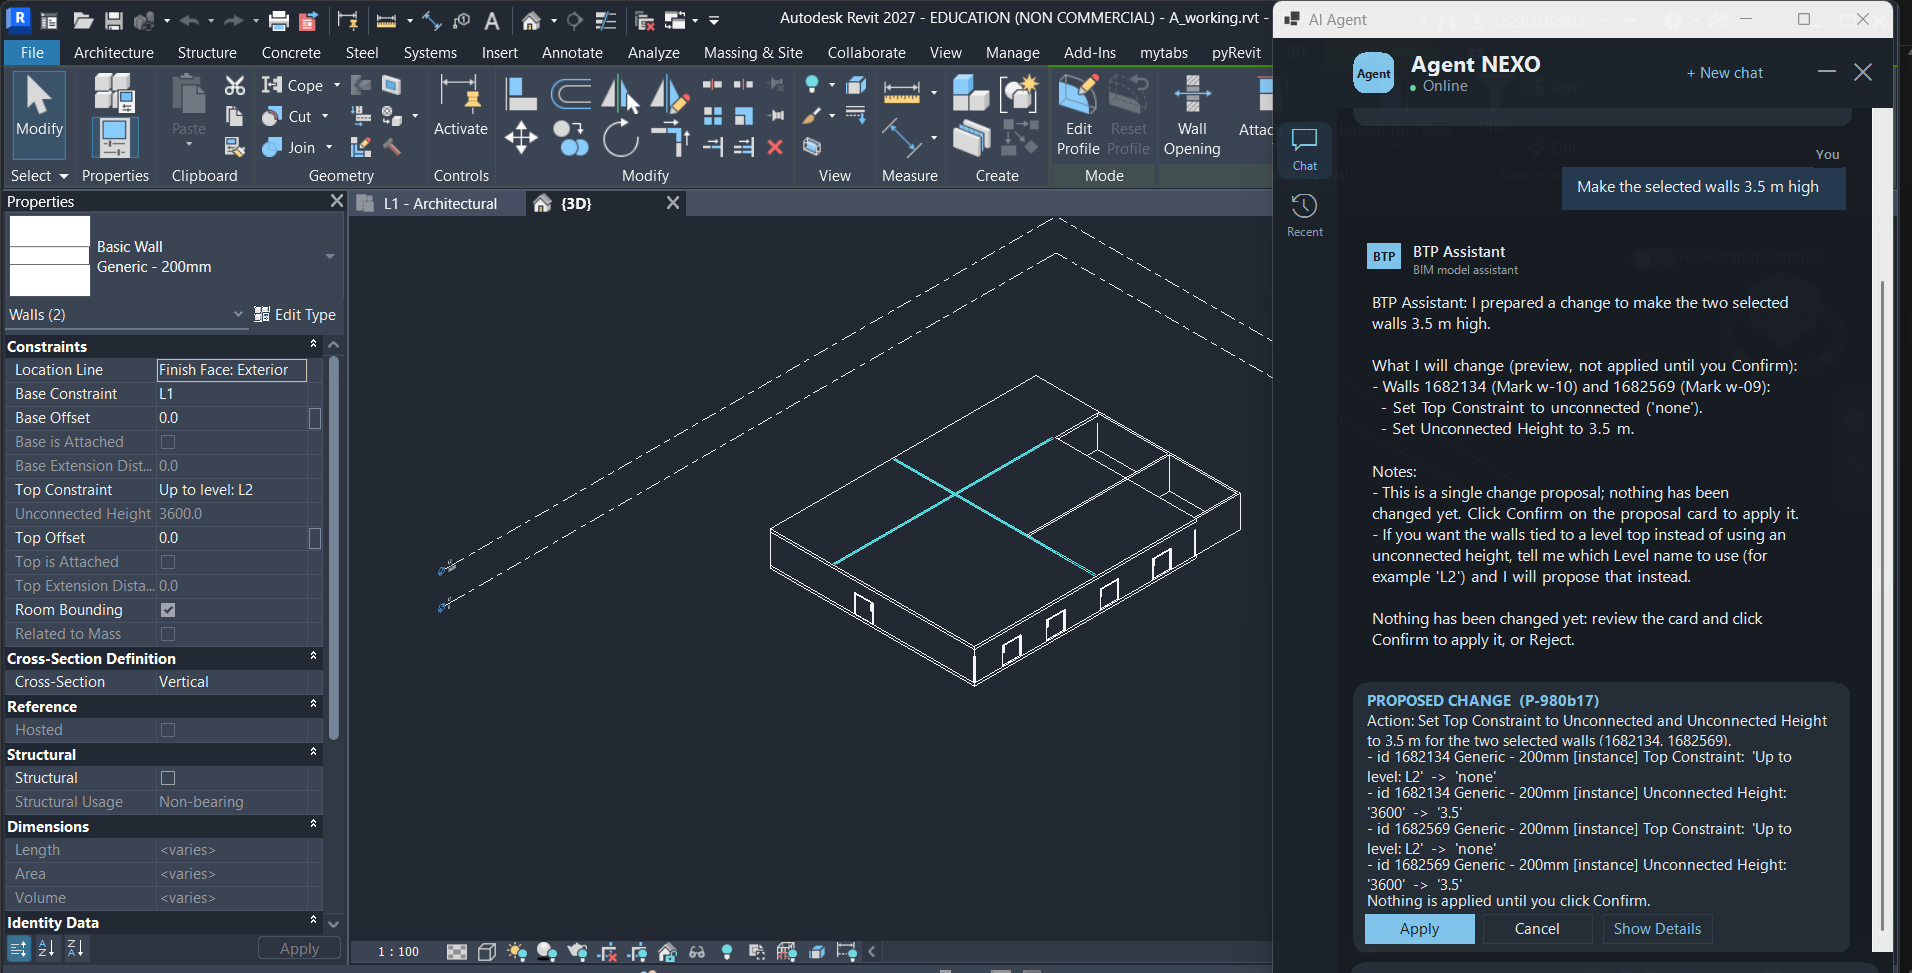
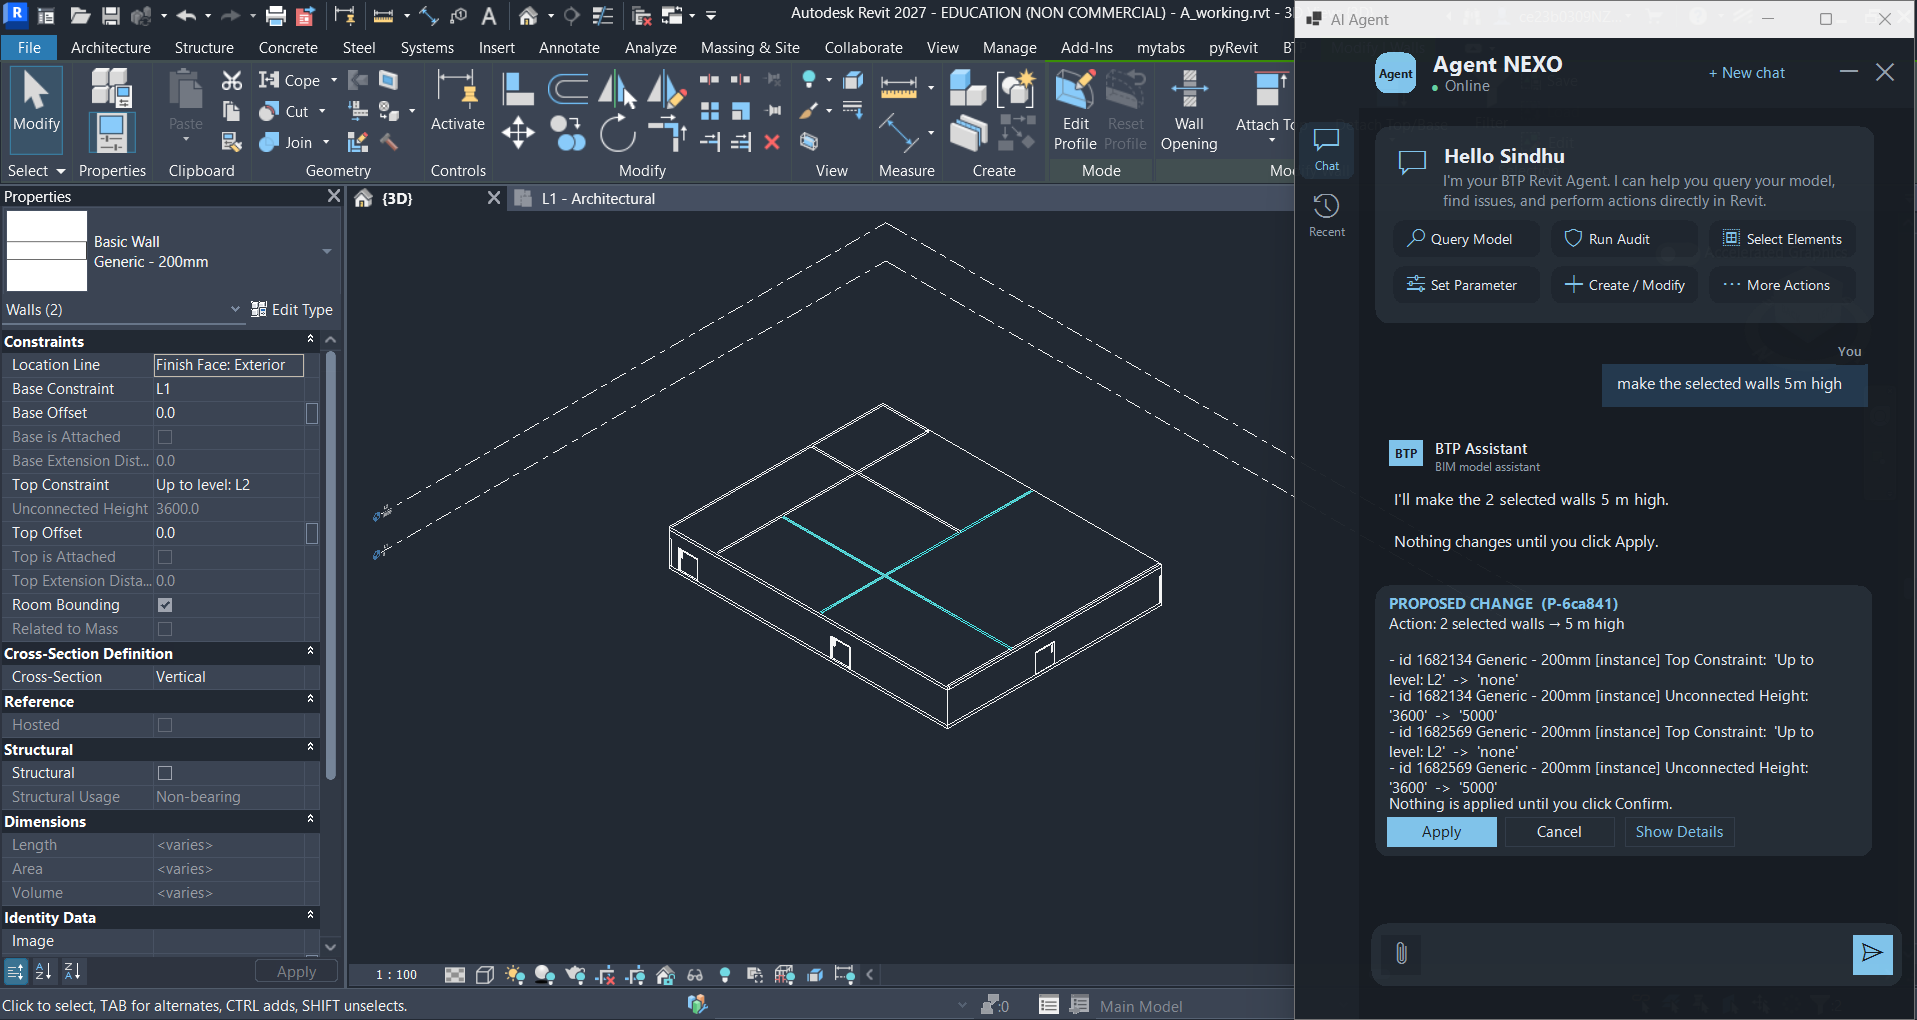
docs: changelog for actions-v3.25, before/after screenshots and the new tests
Claude-Session: https://claude.ai/code/session_01BGRu54y5cGev8tiuAgPQb8

diff --git a/CHANGELOG.md b/CHANGELOG.md
@@ -6,15 +6,26 @@ The format is based on [Keep a Changelog](https://keepachangelog.com/en/1.1.0/).
 
 ## [Unreleased]
 
-### Changed
-- Repository reorganised: the brain server lives in `src/nexo/`, the pyRevit extension in `revit_extension/` (previously `btp_agent_snapshot/`), and every test under `tests/`.
-- The brain server now starts with `python src/nexo/brain_server.py`.
-- README rewritten; `.gitignore` grouped and de-duplicated.
+## [actions-v3.25] - 2026-10-27
+
+### Fixed
+- The agent answered from chat memory instead of reading the model: every turn now starts with a tool call, so answers come from the live, unsaved model.
+- A plain number such as 3.5 was written as 3.5 mm in a millimetre project; it now means 3.5 m, and reading a length returns metres.
+- Both model readers return the same value types (yes/no as 0 or 1, lengths in metres); a text-vs-number mismatch made actions skip walls that had changed.
+- Clear, true reasons when a change is not possible (a height locked by a level, a wall top attached to a roof), instead of a vague error or an invented reason.
+- Walls with an attached top no longer get a height change that has no visible effect.
 
 ### Added
-- `requirements.txt`, `requirements-dev.txt` and `.env.example`.
-- GitHub Actions workflow running the offline checks.
-- `CONTRIBUTING.md`, `SECURITY.md`, issue and pull request templates, MIT `LICENSE`.
+- Detach a wall's top or base through a card (Revit's Detach Top/Base), shown as *Top is Attached Yes -> No* and applied only after **Apply**.
+- After **Apply**, every changed value is read back from the model; anything Revit did not keep is reported.
+- `eval/accuracy_check.py` (compares the agent with values read straight from Revit), `tests/check_live_data.py` (runs in CI) and `docs/accuracy_checklist.md`.
+- README screenshot of the panel.
+
+### Changed
+- Short, plain replies: answers first, no notes or extra offers, no "BTP Assistant:" prefix; card replies end with *Nothing changes until you click Apply.*
+- Repository reorganised: the brain server lives in `src/nexo/` (start it with `python src/nexo/brain_server.py`), the pyRevit extension in `revit_extension/` (previously `btp_agent_snapshot/`), and every test under `tests/`.
+- README rewritten; `.gitignore` grouped and de-duplicated; requirements pinned to the tested versions.
+- Added `requirements.txt`, `requirements-dev.txt`, `.env.example`, a GitHub Actions workflow, `CONTRIBUTING.md`, `SECURITY.md`, issue and pull request templates, and the MIT `LICENSE`.
 
 ## [actions-v3.24] - 2026-10-26
 
@@ -212,7 +223,8 @@ The format is based on [Keep a Changelog](https://keepachangelog.com/en/1.1.0/).
 | [`phase5-complete`](https://github.com/sindhupasham277/BIM_AGENT/releases/tag/phase5-complete) | 2026-10-09 | Safe write path frozen for evaluation |
 | *(untagged)* | 2026-09 | Phases 1-4: read-only assistant, query engine, sandboxed code generation, LLM tool calling |
 
-[Unreleased]: https://github.com/sindhupasham277/BIM_AGENT/compare/actions-v3.24...HEAD
+[Unreleased]: https://github.com/sindhupasham277/BIM_AGENT/compare/actions-v3.25...HEAD
+[actions-v3.25]: https://github.com/sindhupasham277/BIM_AGENT/compare/actions-v3.24...actions-v3.25
 [actions-v3.24]: https://github.com/sindhupasham277/BIM_AGENT/compare/actions-v3.23...actions-v3.24
 [actions-v3.23]: https://github.com/sindhupasham277/BIM_AGENT/compare/actions-v3.22...actions-v3.23
 [actions-v3.22]: https://github.com/sindhupasham277/BIM_AGENT/compare/actions-v3.21...actions-v3.22

diff --git a/README.md b/README.md
@@ -15,7 +15,11 @@ An AI agent that lives inside Autodesk Revit: plain-language questions get exact
 
 </div>
 
-<p align="center"><img src="docs/images/panel.png" alt="Agent NEXO panel inside Revit" width="820"></p>
+<p align="center">
+  <img src="docs/images/panel.png" alt="Agent NEXO previewing a change: two walls to 5 m, shown on a card before anything changes" width="49%">
+  <img src="docs/images/panel_applied.png" alt="After Apply: the two walls are 5 m high in the Revit model" width="49%">
+</p>
+<p align="center"><sub><b>Left:</b> the agent previews the change on a card, and nothing changes yet. <b>Right:</b> after <b>Apply</b>, the walls are 5 m high in Revit.</sub></p>
 
 ---
 
@@ -172,8 +176,10 @@ BIM_AGENT/
 | Memory database | Python | `python tests\check_memory.py` |
 | Direct regression suite (35 checks, no AI credits) | Revit with a model open | `python eval\direct_regression.py` |
 | Model-independent dry-run check | Revit with any model open | `python eval\model_check.py` |
+| Every chat turn reads the live model | Python | `python tests\check_live_data.py` |
+| Accuracy check against Revit (`--agent` also asks the agent; uses AI credits) | Revit with a model open | `python eval\accuracy_check.py` |
 
-The offline checks run on every push in [GitHub Actions](.github/workflows/tests.yml). AI test sets and their scoring are in `eval/actions/`.
+The offline checks run on every push in [GitHub Actions](.github/workflows/tests.yml). AI test sets and their scoring are in `eval/actions/`; a manual checklist is in [`docs/accuracy_checklist.md`](docs/accuracy_checklist.md).
 
 ## Results
 

diff --git a/CONTRIBUTING.md b/CONTRIBUTING.md
@@ -55,8 +55,10 @@ Thanks for your interest. This project changes real building models, so every co
 | Memory database | Python only | `python tests/check_memory.py` |
 | Direct regression suite | Revit with a model open | `python eval/direct_regression.py` |
 | Model-independent check | Revit with any model open | `python eval/model_check.py` |
+| Live-model test | Python only | `python tests/check_live_data.py` |
+| Accuracy check | Revit with a model open | `python eval/accuracy_check.py` |
 
-The first two run automatically on every push in GitHub Actions. Run the Revit checks before opening a pull request that touches the extension or the brain.
+The first two and the live-model test run automatically on every push in GitHub Actions. Run the Revit checks before opening a pull request that touches the extension or the brain.
 
 ## Reporting problems
 
